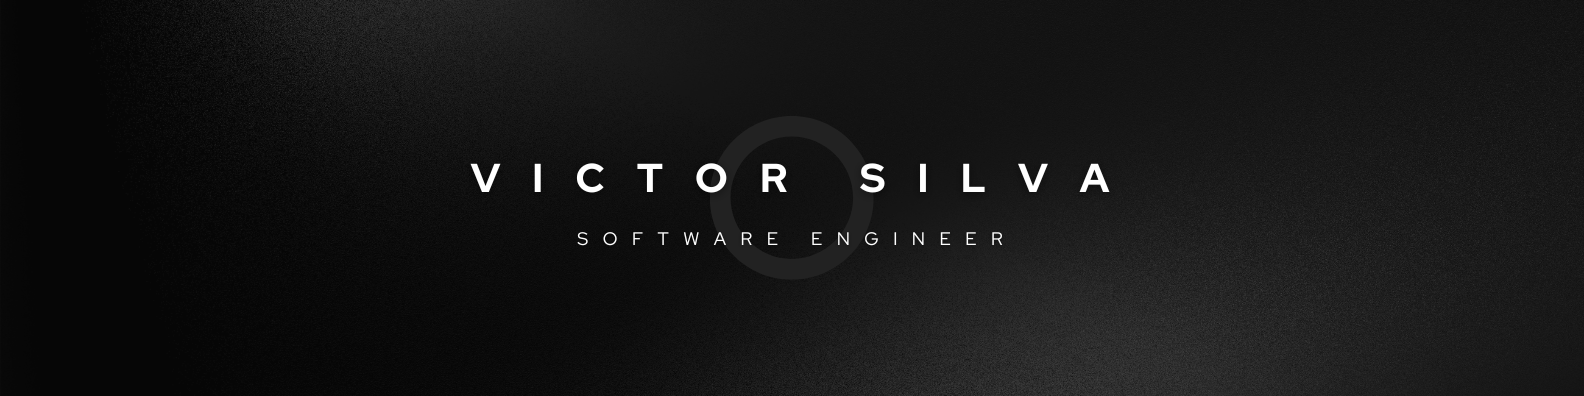
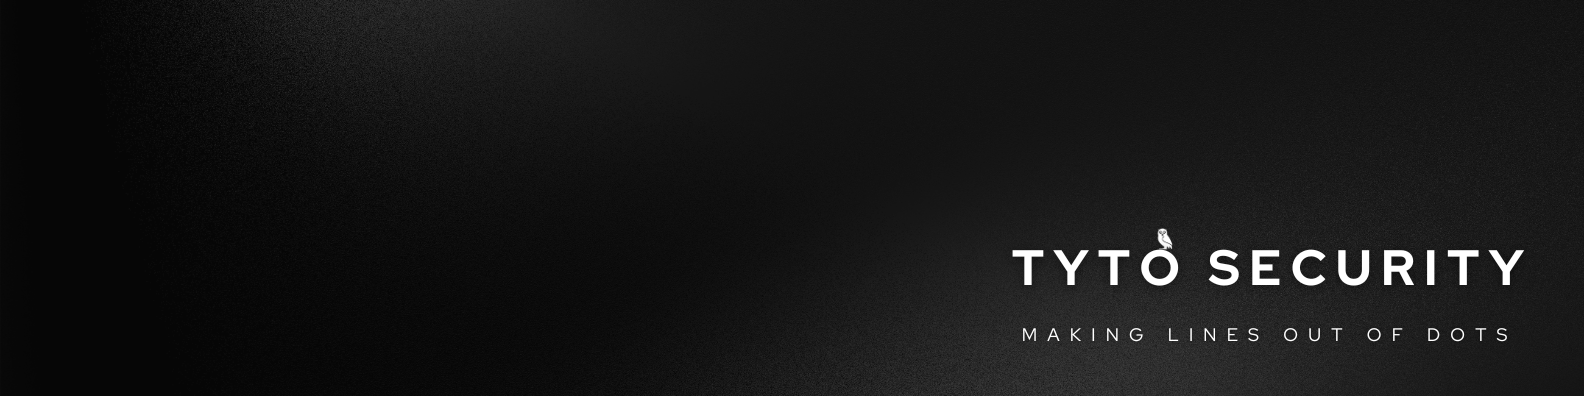
update readme

diff --git a/README.md b/README.md
@@ -1,38 +1,72 @@
 <img src="./banner.png" />
 
+<div align="center">
+  <a href="https://www.youtube.com/@TytoSecurity" target="_blank">
+    <img src="https://img.shields.io/static/v1?message=Youtube&logo=youtube&label=&color=FF0000&logoColor=white&labelColor=&style=for-the-badge" height="24" alt="youtube logo"  />
+  </a>
+  <a href="https://www.instagram.com/tytosec/" target="_blank">
+    <img src="https://img.shields.io/static/v1?message=Instagram&logo=instagram&label=&color=E4405F&logoColor=white&labelColor=&style=for-the-badge" height="24" alt="instagram logo"  />
+  </a>
+  <a href="https://www.twitch.tv/tytosec" target="_blank">
+    <img src="https://img.shields.io/static/v1?message=Twitch&logo=twitch&label=&color=9146FF&logoColor=white&labelColor=&style=for-the-badge" height="24" alt="twitch logo"  />
+  </a>
+  <a href="https://www.linkedin.com/in/victorhfsilva/" target="_blank">
+    <img src="https://img.shields.io/static/v1?message=LinkedIn&logo=linkedin&label=&color=0077B5&logoColor=white&labelColor=&style=for-the-badge" height="24" alt="linkedin logo"  />
+  </a>
+  <a href="https://discordapp.com/users/1158496290695544913" target="_blank">
+    <img src="https://img.shields.io/static/v1?message=Discord&logo=discord&label=&color=7289DA&logoColor=white&labelColor=&style=for-the-badge" height="24" alt="discord logo"  />
+  </a>
+  <a href="https://medium.com/@tytosec" target="_blank">
+    <img src="https://img.shields.io/static/v1?message=Medium&logo=medium&label=&color=12100E&logoColor=white&labelColor=&style=for-the-badge" height="24" alt="medium logo"  />
+  </a>
+  <a href="https://x.com/tytosec" target="_blank">
+    <img src="https://img.shields.io/static/v1?message=Twitter&logo=twitter&label=&color=1DA1F2&logoColor=white&labelColor=&style=for-the-badge" height="24" alt="twitter logo"  />
+  </a>
+</div>
+
 <br>
 
-Hi! Welcome to my GitHub repository. Here, you'll find a curated collection of projects that I've worked on throughout my journey.
+> Welcome to my GitHub repository. Here, you'll find a curated collection of projects that I've worked on throughout my journey.
+
+## About Me
 
 <br>
 
-## Job Experience
+I am a Software Engineer specializing in Full-Cycle Development, Cybersecurity and Data Engineering. My core technical stack includes building Front-End applications with React and TypeScript, alongside Back-End services using Java and Spring Boot. Additionally, I have extensive experience in Data Engineering, where I leverage Python, SQL, and Databricks to build pipelines of data.
+
+My background also includes a foundation in Quality Assurance, specifically in developing automated testing suites using Selenium, Rest Assured and Cypress to ensure software reliability and performance.
+
+<br> 
+
+## Formal Education
 
 <br>
 
-I currently work as a Software Engineer at the Credit Union Sicredi. In this role, I work on Front-End development using React and TypeScript, Back-End development using Java and Spring Boot, ETL development with Databricks and creating all sorts of scripts and automations with Python.
+I'm Bachelor of Physics Engineering at Universidade Estadual do Mato Grosso do Sul. During this undergraduate project I built a solid foundation in Physics, Electronics, Materials Science and Control and Automation.
 
-In my previous experience at DB Server I also worked with the same stack plus Automated Test development using Selenium and Rest Assured.
+Additionaly I went through a Sandwich Program in Information Technology Engineering in Budapest - Hungary.
 
-<br>
-
-## Cybersecurity Experience
+I'm also a drop out of Eletronics and Telecommunication Engineering, where I studied 9 semesters of subjects like Electronics, Networks, Telecommunications and Control and Automation.
 
 <br>
 
-One area that really fascinates me is offensive security. To learn more about my progress in offensive security, visit my github dedicated to this subject:
-
-- [Github: Tyto-Sec](https://github.com/tyto-sec)
+## Open Source Projects
 
 <br>
 
-Some of the offensive security projects I'm proud about are:
+I am the founder of Tyto Security, an open-source initiative dedicated to developing specialized tools for Offensive Security and Bug Bounty programs.
 
-| Projects    | Language | Description |
-| -------- | ------- | ------- |
-| [DnsKiller](https://github.com/tyto-sec/DnsKiller)  | ![Python](https://img.shields.io/badge/python-3670A0?style=for-the-badge&logo=python&logoColor=ffdd54) ![Docker](https://img.shields.io/badge/docker-%230db7ed.svg?style=for-the-badge&logo=docker&logoColor=white) | Automated tool for scanning a domain list in search for Subdomain Takeover and Email Spoofing vulnerabilities via DNS queries. |
-| [Nmapalooza](https://github.com/tyto-sec/nmapalooza) | ![Bash Script](https://img.shields.io/badge/bash_script-%23121011.svg?style=for-the-badge&logo=gnu-bash&logoColor=white) | Toolkit that automates a multi-stage network scan process using Nmap. |
-| [Linkaboo](https://github.com/tyto-sec/linkaboo)   | ![Bash Script](https://img.shields.io/badge/bash_script-%23121011.svg?style=for-the-badge&logo=gnu-bash&logoColor=white) | Linux enumaration toolkit to automate post exploitation enumeration of targets. |
+> [Tyto Security](https://github.com/tyto-sec) is an open-source initiative dedicated to developing offensive security tools designed to streamline CTFs, Bug Bounty hunting, and professional penetration testing workflows. Beyond tool development, we are committed to advancing cybersecurity knowledge and fostering a more secure digital ecosystem through community-driven education and collaboration.
+
+<br>
+
+A summarized list of my finished projects is the following:
+
+| Projects    | Description | Language | Stars |
+| -------- | ------- | ------- | ------- |
+| [HackerOneCsvGrabber](https://github.com/tyto-sec/HackerOneCsvGrabber) | Tool to extract in scope assets from Hacker One CSVs. | ![language](https://img.shields.io/github/languages/top/tyto-sec/HackerOneCsvGrabber)| ![stars](https://img.shields.io/github/stars/tyto-sec/HackerOneCsvGrabber)  |
+| [Easymap](https://github.com/tyto-sec/easymap) | Multi-Stage network scan tool bacsed on Nmap. | ![language](https://img.shields.io/github/languages/top/tyto-sec/easymap) | ![stars](https://img.shields.io/github/stars/tyto-sec/easymap)  |
+| [Linkorn](https://github.com/tyto-sec/linkorn) | Post-Exploitation Enumaration Tool for Linux. | ![language](https://img.shields.io/github/languages/top/tyto-sec/linkorn) | ![stars](https://img.shields.io/github/stars/tyto-sec/linkorn)  |
 
 <br>
 
@@ -45,60 +79,18 @@ Some of the offensive security projects I'm proud about are:
 | Back End | ![Java](https://img.shields.io/badge/java-%23ED8B00.svg?style=for-the-badge&logo=openjdk&logoColor=white) ![Kotlin](https://img.shields.io/badge/kotlin-%237F52FF.svg?style=for-the-badge&logo=kotlin&logoColor=white) ![Spring](https://img.shields.io/badge/spring-%236DB33F.svg?style=for-the-badge&logo=spring&logoColor=white) ![RabbitMQ](https://img.shields.io/badge/rabbitmq-FF6600?style=for-the-badge&logo=rabbitmq&logoColor=white) ![PHP](https://img.shields.io/badge/php-%23777BB4.svg?style=for-the-badge&logo=php&logoColor=white) |
 | Front End | ![HTML5](https://img.shields.io/badge/html5-%23E34F26.svg?style=for-the-badge&logo=html5&logoColor=white) ![CSS3](https://img.shields.io/badge/css3-%231572B6.svg?style=for-the-badge&logo=css3&logoColor=white) ![JavaScript](https://img.shields.io/badge/javascript-%23323330.svg?style=for-the-badge&logo=javascript&logoColor=%23F7DF1E) ![React](https://img.shields.io/badge/react-%2320232a.svg?style=for-the-badge&logo=react&logoColor=%2361DAFB) ![TypeScript](https://img.shields.io/badge/typescript-%23007ACC.svg?style=for-the-badge&logo=typescript&logoColor=white) ![Jest](https://img.shields.io/badge/-jest-%23C21325?style=for-the-badge&logo=jest&logoColor=white) ![PHP](https://img.shields.io/badge/php-%23777BB4.svg?style=for-the-badge&logo=php&logoColor=white) |
 | Quality Assurance | ![Cypress](https://img.shields.io/badge/-cypress-%23E5E5E5?style=for-the-badge&logo=cypress&logoColor=058a5e) ![Selenium](https://img.shields.io/badge/-selenium-%43B02A?style=for-the-badge&logo=selenium&logoColor=white) |
-| Data Engineering |  ![Python](https://img.shields.io/badge/python-3670A0?style=for-the-badge&logo=python&logoColor=ffdd54) ![Databricks](https://img.shields.io/badge/Databricks-181825?style=for-the-badge&logo=databricks) |
+| Data Engineering |  ![Python](https://img.shields.io/badge/python-3670A0?style=for-the-badge&logo=python&logoColor=ffdd54) ![Databricks](https://img.shields.io/badge/Databricks-181825?style=for-the-badge&logo=databricks) ![Scrapy](https://img.shields.io/badge/scrapy-%2360a839.svg?style=for-the-badge&logo=scrapy&logoColor=d1d2d3) |
 | Scripting Languages | ![Python](https://img.shields.io/badge/python-3670A0?style=for-the-badge&logo=python&logoColor=ffdd54) ![Bash Script](https://img.shields.io/badge/bash_script-%23121011.svg?style=for-the-badge&logo=gnu-bash&logoColor=white) ![Go](https://img.shields.io/badge/go-%2300ADD8.svg?style=for-the-badge&logo=go&logoColor=white) ![Windows Terminal](https://img.shields.io/badge/Windows%20Terminal-%234D4D4D.svg?style=for-the-badge&logo=windows-terminal&logoColor=white) ![PowerShell](https://img.shields.io/badge/PowerShell-%235391FE.svg?style=for-the-badge&logo=powershell&logoColor=white) ![C](https://img.shields.io/badge/c-%2300599C.svg?style=for-the-badge&logo=c&logoColor=white) |
 | Databases | ![MicrosoftSQLServer](https://img.shields.io/badge/Microsoft%20SQL%20Server-CC2927?style=for-the-badge&logo=microsoft%20sql%20server&logoColor=white) ![MySQL](https://img.shields.io/badge/mysql-4479A1.svg?style=for-the-badge&logo=mysql&logoColor=white) ![Postgres](https://img.shields.io/badge/postgres-%23316192.svg?style=for-the-badge&logo=postgresql&logoColor=white) ![MongoDB](https://img.shields.io/badge/MongoDB-%234ea94b.svg?style=for-the-badge&logo=mongodb&logoColor=white) |
-| CI/CD |  ![Git](https://img.shields.io/badge/git-%23F05033.svg?style=for-the-badge&logo=git&logoColor=white) ![Gitea](https://img.shields.io/badge/Gitea-34495E?style=for-the-badge&logo=gitea&logoColor=5D9425) ![GitHub](https://img.shields.io/badge/github-%23121011.svg?style=for-the-badge&logo=github&logoColor=white) ![GitLab](https://img.shields.io/badge/gitlab-%23181717.svg?style=for-the-badge&logo=gitlab&logoColor=white) |
+| CI/CD |  ![Git](https://img.shields.io/badge/git-%23F05033.svg?style=for-the-badge&logo=git&logoColor=white) ![Gitea](https://img.shields.io/badge/Gitea-34495E?style=for-the-badge&logo=gitea&logoColor=5D9425) ![GitHub](https://img.shields.io/badge/github-%23121011.svg?style=for-the-badge&logo=github&logoColor=white) ![GitLab](https://img.shields.io/badge/gitlab-%23181717.svg?style=for-the-badge&logo=gitlab&logoColor=white) ![GitHub Actions](https://img.shields.io/badge/github%20actions-%232671E5.svg?style=for-the-badge&logo=githubactions&logoColor=white) |
 | DevSecOps | ![Docker](https://img.shields.io/badge/docker-%230db7ed.svg?style=for-the-badge&logo=docker&logoColor=white) ![Linux](https://img.shields.io/badge/Linux-FCC624?style=for-the-badge&logo=linux&logoColor=black)  |
 | Pentest | ![Burp Suite](https://img.shields.io/badge/Burp_Suite-FF6633?style=for-the-badge&llogo=burpsuite&logoColor=white) ![Metasploit](https://img.shields.io/badge/Metasploit-1F93FF?style=for-the-badge&logo=metasploit&logoColor=white) ![Wireshark](https://img.shields.io/badge/Wireshark-1679A7?style=for-the-badge&logo=wireshark&logoColor=white) ![Nmap](https://img.shields.io/badge/Nmap-005571?style=for-the-badge&logo=nmap&logoColor=white) ![Kali Linux](https://img.shields.io/badge/Kali%20Linux-268BEE?style=for-the-badge&logo=kalilinux&logoColor=white)  |
 
 
 <br>
 
-## Stats
-
-![](https://github-readme-stats.vercel.app/api?username=victorhfsilva&theme=radical&hide_border=false&include_all_commits=false&count_private=false)
-<br/><br/>
-![](https://github-readme-stats.vercel.app/api/top-langs/?username=victorhfsilva&theme=radical&hide_border=false&include_all_commits=false&count_private=false&layout=compact)
-
 ## Contact
 
-<div align="left">
-  <a href="https://www.youtube.com/@TytoSecurity" target="_blank">
-    <img src="https://img.shields.io/static/v1?message=Youtube&logo=youtube&label=&color=FF0000&logoColor=white&labelColor=&style=for-the-badge" height="35" alt="youtube logo"  />
-  </a>
-  <a href="https://www.instagram.com/tytosec/" target="_blank">
-    <img src="https://img.shields.io/static/v1?message=Instagram&logo=instagram&label=&color=E4405F&logoColor=white&labelColor=&style=for-the-badge" height="35" alt="instagram logo"  />
-  </a>
-  <a href="https://www.twitch.tv/tytosec" target="_blank">
-    <img src="https://img.shields.io/static/v1?message=Twitch&logo=twitch&label=&color=9146FF&logoColor=white&labelColor=&style=for-the-badge" height="35" alt="twitch logo"  />
-  </a>
-  <a href="https://www.linkedin.com/in/victorhfsilva/" target="_blank">
-    <img src="https://img.shields.io/static/v1?message=LinkedIn&logo=linkedin&label=&color=0077B5&logoColor=white&labelColor=&style=for-the-badge" height="35" alt="linkedin logo"  />
-  </a>
-  <a href="https://discordapp.com/users/1158496290695544913" target="_blank">
-    <img src="https://img.shields.io/static/v1?message=Discord&logo=discord&label=&color=7289DA&logoColor=white&labelColor=&style=for-the-badge" height="35" alt="discord logo"  />
-  </a>
-  <a href="https://medium.com/@tytosec" target="_blank">
-    <img src="https://img.shields.io/static/v1?message=Medium&logo=medium&label=&color=12100E&logoColor=white&labelColor=&style=for-the-badge" height="35" alt="medium logo"  />
-  </a>
-  <a href="https://x.com/tytosec" target="_blank">
-    <img src="https://img.shields.io/static/v1?message=Twitter&logo=twitter&label=&color=1DA1F2&logoColor=white&labelColor=&style=for-the-badge" height="35" alt="twitter logo"  />
-  </a>
-</div>
+<br>
 
-
-<!--
-**victorhfsilva/victorhfsilva** is a ✨ _special_ ✨ repository because its `README.md` (this file) appears on your GitHub profile.
-
-Here are some ideas to get you started:
-
-- 🔭 I’m currently working on ...
-- 🌱 I’m currently learning ...
-- 👯 I’m looking to collaborate on ...
-- 🤔 I’m looking for help with ...
-- 💬 Ask me about ...
-- 📫 How to reach me: ...
-- 😄 Pronouns: ...
-- ⚡ Fun fact: ...
--->
+While I haven't been as active on social media lately, that is about to change. I’m planning to develop some high-quality cybersecurity content and look forward to sharing it with the community soon. If you'd like to stay updated on this project and other upcoming initiatives, feel free to follow me on your preferred platform.
